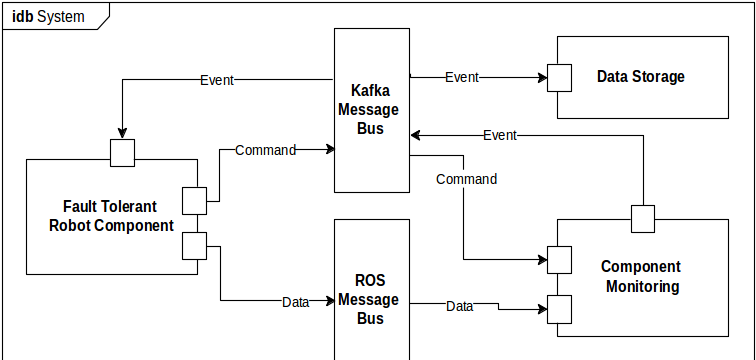
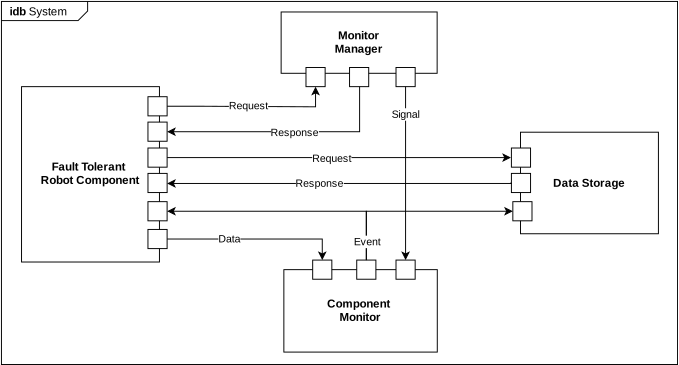
[component_sm] Config, readme, diagram update

diff --git a/component_sm/scripts/run_rgbd_camera.py b/component_sm/scripts/run_rgbd_camera.py
@@ -22,7 +22,7 @@ if __name__ == '__main__':
         data_output_topic=config['data_output_topics'][0],
         monitoring_control_topic=config['monitoring']['control_topic'],
         monitoring_pipeline_server=config['monitoring']['pipeline_server'],
-        monitors_ids=[config['monitoring']['monitors'][0]['id']],
+        monitors_ids=config['monitoring']['monitors'],
         general_message_format=general_message_format,
         general_message_schema=general_message_schema,
         monitoring_message_schema=monitoring_message_schema,

diff --git a/component_sm/README.md b/component_sm/README.md
@@ -1,49 +1,61 @@
 # Component State Machine
 
-This project contains implementation of the abstract class `ComponentSMBase` which is used for creating fault tolerant robot components. A minimal working example of such component is provided within class `RGBDCameraSM`.
+This project contains implementation of the abstract class `ComponentSMBase` which is used for creating Fault Tolerant Robot Components. A minimal working example of such component is provided within class `RGBDCameraSM`. It simulates the behaviour of the fault tolerant RGBD camera in the robot. It only simulates because there is no real hardware interface implemented. Instead of this simply the ROS topic with the pointcloud is used.
+
 The fault tolerance of the component is based on two aspects:
 * Use of the Fault Tolerant State Machine
 * Direct communication with the monitoring mechanism provided in the repository **component_monitoring**.
 
 ## Usage
-To run the fault tolerant RGBD camera, which is a minimal working example of the fault tolerant component, please use the below command:
+To run the fault tolerant RGBD camera, which is a minimal working example of the Fault Tolerant Robot Component, please use the below command:
 ```python
 cd scripts
 python run_rgbd_camera.py
 ```
 
 ## Explanation of communication with **component_monitoring**
-Fault Tolerant Component is transferring data (e.g.: pointcloud) to the Component Monitoring with the use of ROS message bus. Respective monitors in the Component Monitoring part are monitoring the data and generating events into Kafka message bus. Those events are then received by the Fault Tolerant Component and an appriopriate reaction is performed.
+The implemented Fault Tolerant Component is transferring data (e.g.: pointcloud) to the Component Monitor with the use of ROS messages. Respective Component Monitors are monitoring the data and generating events with the use of Kafka message bus. Those events are then received by the implemented Fault Tolerant Robot Component and an appriopriate reaction is performed.
 
-Additionally, the Fault Tolerant Component is able to turn off/on the respective monitors. It is done by sending an appriopriate command to the Component Monitoring (more precisely `monitor_manager`).
+Additionally, the Fault Tolerant Robot Component is able to turn off/on the respective monitors. It is done by sending an appriopriate request (via Kafka message bus) to the Monitor Manager which is able to start/stop chosen monitors. 
+
+The Fault Tolerant Robot Component is also able to communicate with the Data Storage and request to store in the database events from the chosen Component Monitors.
 
 The complete communication schema is depicted below with the Internal Block Diagram.
 
-![Pick bottle from table state machine](../docs/figures/commponent_sm_comm.png)
+![System architecture](../docs/figures/commponent_sm_comm.png)
 
 The messages sent within the Kafka message bus are in the form of JSON. There are two types of messages:
 
-* general message - it that case it is used to send commands (`general.json`), the message is composed of the following fields:
-  * `source_id` - unique id of the publisher (e.g. id of the component)
-  * `target_id` - list of the ids of the receivers (e.g. ids of the monitors)
-  * `type` - type of the message (e.g.: ack (acknowledgement), cmd (command))
-  * `message`
-    * `command` - command for the receiver (e.g. shutdown or activate), this field is used when the type of the message is `cmd`
-    * `status` - status of the publisher performing the command (e.g.: success,failure, fatal), thie field is used when the type of the message is `ack`,
-* event message - in that case specific format is used for the minimal working example (`monitoring.json`):
+* general message - the json file and schema are in `general.json` and `general.schema` files. The communication between the Fault Tolerant Robot Component and Monitor Manager/Data Storage is based on that form of the message. The message is composed of the following fields:
+  * `from` - unique id of the publisher (e.g. id of the Fault Tolerant Robot Component)
+  * `to` - unique id of the receiver (e.g. id of the Monitor Manager)
+  * `message` - type of the message (`request`, `response` or `info`)
+  * `body` - the content of this part varies, depending on the type of the message.
+    * If the message is of type `request` the `body` section contains respective fields:
+      * `command` - possible commands are: `activate` / `shutdown` (switch on/off chosen monitors), `start_storage`/`stop_storage` (start/stop data storage for the events produced by the chosen monitors)
+      * `monitors` - monitors which we want to be shut down by the Monitor Manager or monitors which are producing events that no longer should be stored by the Data Storage 
+    * If the message is of type `response` the `body` section contains respective fields:
+      * `code` - possible codes are: `200` / `400` (success/failure)
+      * `message` - additional information, mainly for debugging purposes
+    * If the message is of type `info` the `body` section contains respective fields:
+      * `monitors` - list of the monitors ids
+      * `actions`
+ 
+* event message - the event containing the percentage of the NaN values in the pointcloud generated by the RGBD camera.The format of the message is defined in the `monitoring.json` and `monitoring.schema` and is as follows:
   * `monitorName` - name of the monitor that generated the event
   * `monitorDescription` - description of the monitor
-  * `healthStatus`
-    * `nans` - field indicating if the monitor considers the number of NaN values in the received point cloud (from the component) as too big (`true`) or as normal (`false`)
+  * `healthStatus` - health status of the component. It contains one filed `nan_ratio`, which is the percentage of the NaN values in the pointcloud generated by the component (here RGBD camera).
 
 ## Configuration
 
-The Fault Tolerant Component needs to have assigned certain parameters which are depicted in the configuration file `config.yaml`. All of the parameters are explained below:
+The Fault Tolerant Robot Component needs to have assigned certain parameters which are depicted in the configuration file `config/config.yaml`. All of the parameters are explained below:
 
-* `id` - unique id of the fault tolerant component
+* `id` - unique id of the Fault Tolerant Robot Component
 * `data_input_topics` - ROS topic from which the data is received by the component
 * `data_output_topics` - ROS topic to which the data is put from the component
 * `data_transfer_timeout` - if component can not publish data for this time, reconfiguration is activated (the unit is second)
-* `pipeline_server` - address of the Kafka server
-* `control_topic` - Kafka topic to switch on/off monitoring
-* `monitors` - list of monitors that are monitoring the component, each monitor is defined by its unique `id` and `feedback_topic` from which the component is receiving information about its possible failure
+* `threshold` - percentage threshold of NaN values (in the pointcloud) that is acceptable. If number of NaN values exceeds this limit, the component starts recovery behaviour. In the current implementation the information about the NaNs in the generated pointcloud is received from the monitor.
+* `monitoring` - this section contains all the parameters that are necessary to communicate with the Monitor Manager and Storage Manager. The parameters are:
+  * `pipeline_server` - address of the Kafka server
+  * `control_topic` - Kafka topic to communicate with the Storage Manager and Monitor Manager
+  * `monitors` - list of unique ids of the monitor modes that are monitoring the component
